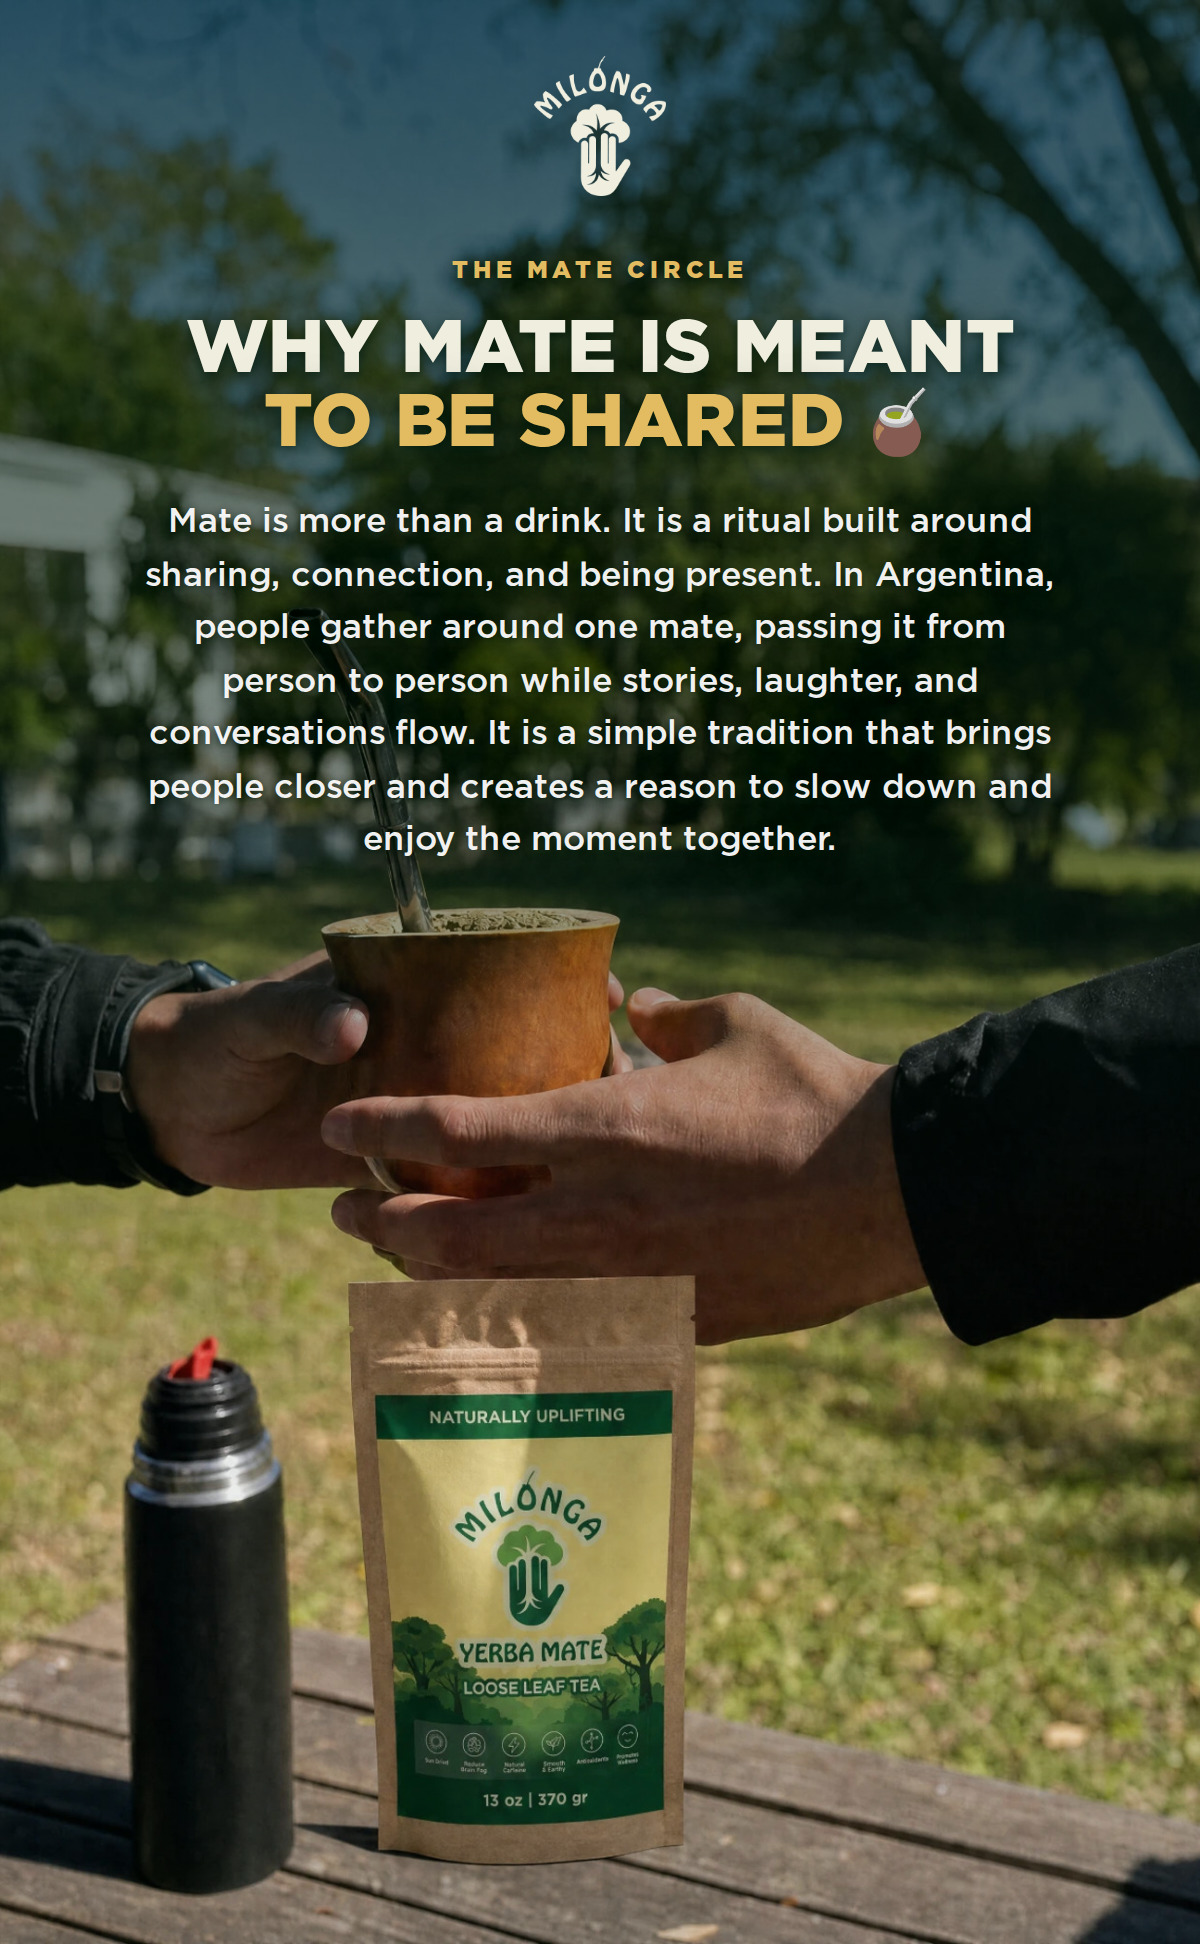
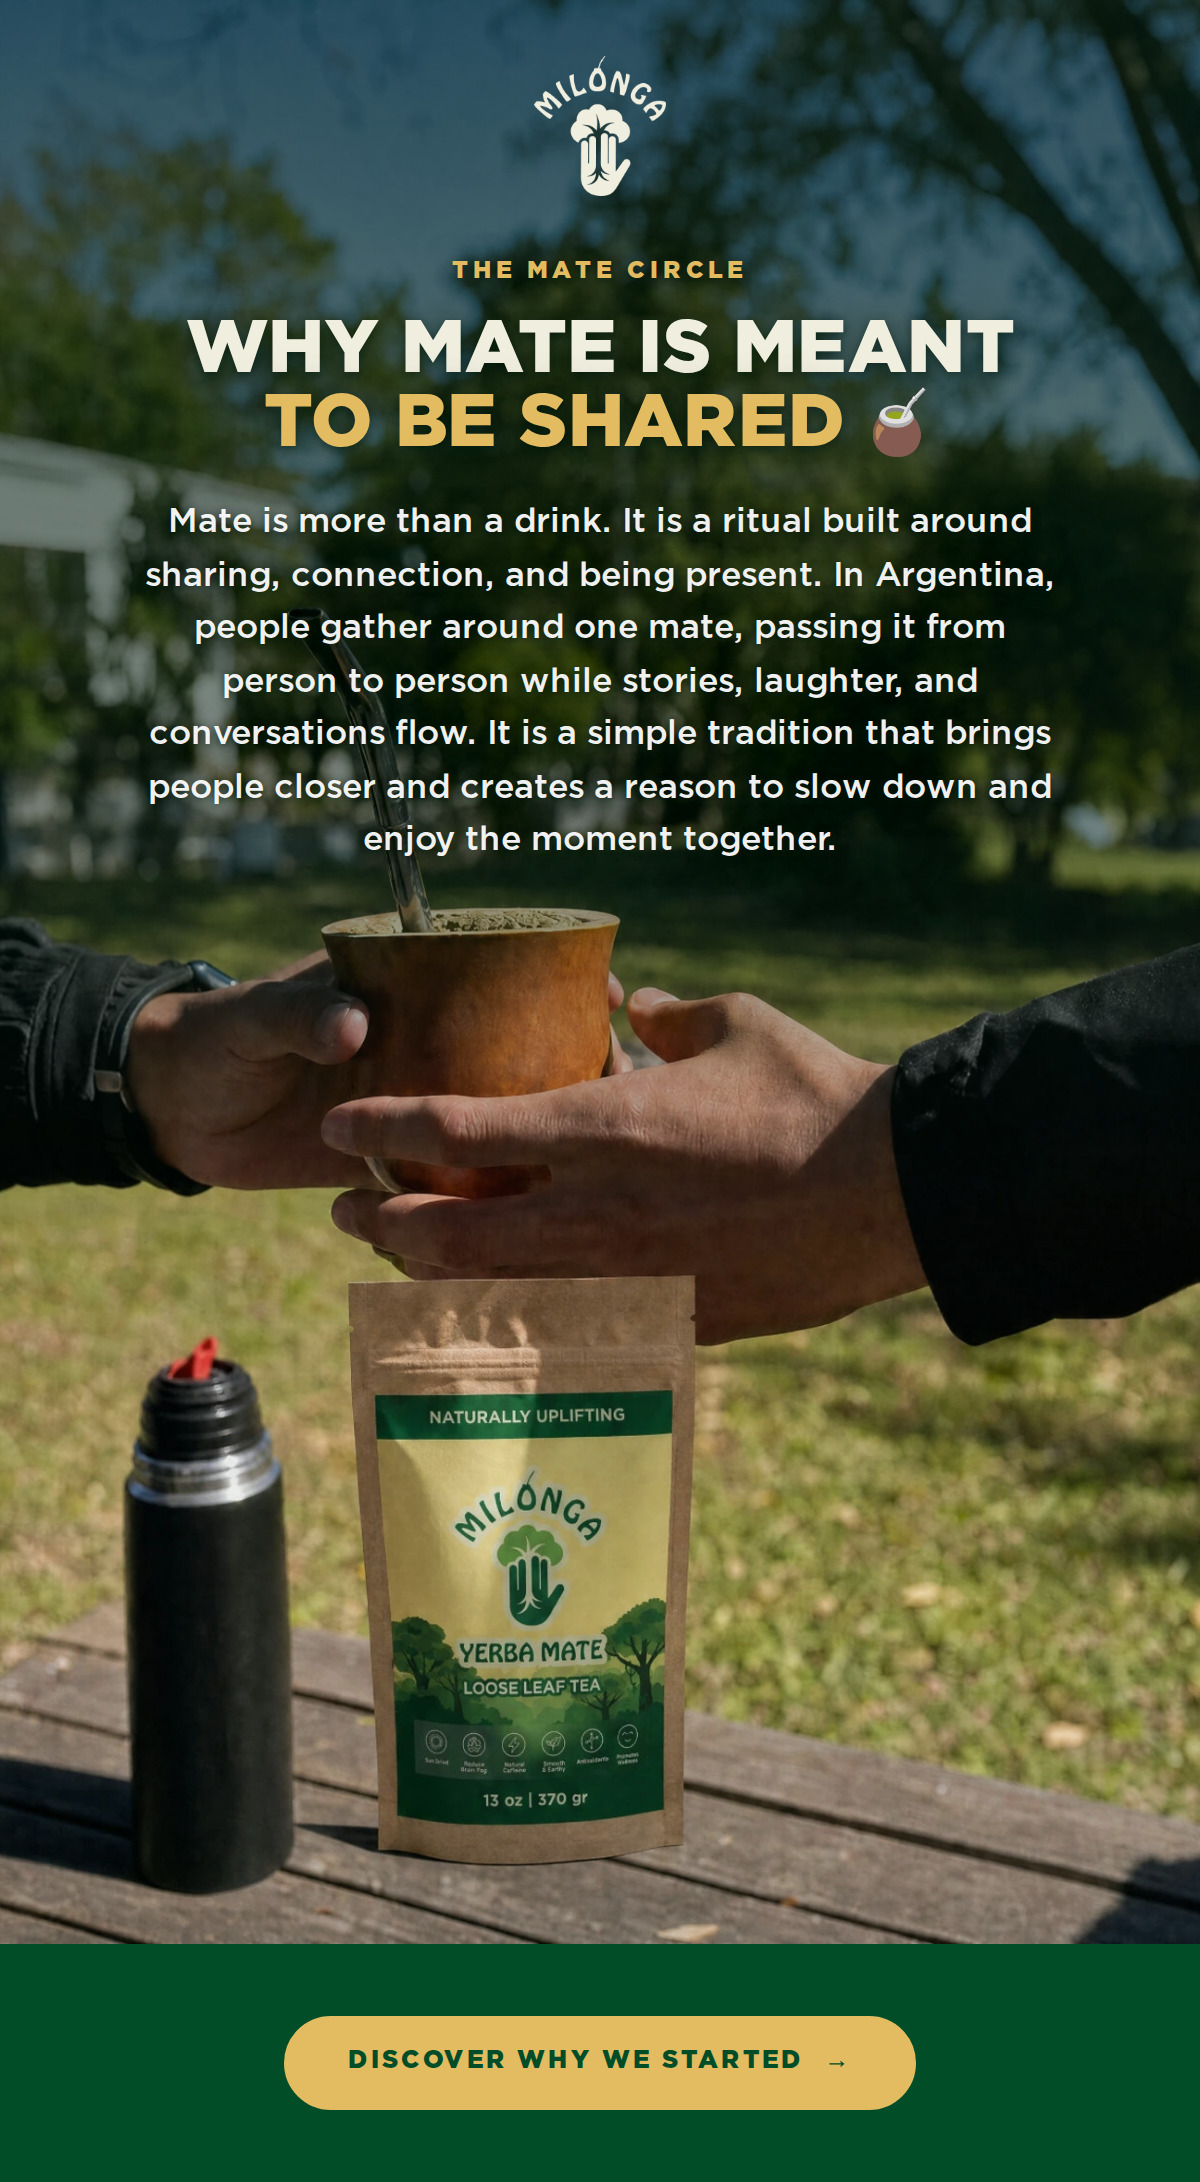
Add an About-page CTA to section 1 via T9Story ctaBelow
"Discover why we started", pointing at the About page.

It goes on a forest band under the photograph rather than on it. The opener
runs the Milonga pouch almost to the bottom edge and the gourd and hands fill
the middle, so there is no quiet corner left — a pill on top of the pack would
be the same mistake corrected in section 2 one commit ago, and no amount of
scrim fixes a button sitting on the product.

So `ctaBelow` moves the CTA group onto a band of `bg` beneath the frame. The
band is brand colour, which means the button is gold on forest — the strongest
contrast pairing we have — instead of gold on whatever the photograph happens
to be doing at that height.

The scrim follows: with nothing to protect at the foot of the picture, the
bottom of the gradient drops back to its light setting rather than darkening
art for a button that is no longer on it.

Claude-Session: https://claude.ai/code/session_01NhEtXPnfeCJfN73SqBkUZ5

diff --git a/email-ds/src/components/HeroTemplates.tsx b/email-ds/src/components/HeroTemplates.tsx
@@ -974,6 +974,17 @@ export interface T9Props {
    */
   tailParas?: string[];
   cta?: Cta;
+  /**
+   * Move the CTA group OFF the photograph, onto a band of `bg` underneath it.
+   *
+   * Some pictures have no quiet corner to put a button in — this section's
+   * opener runs the pouch almost to the bottom edge, and a pill on top of the
+   * pack is worse than no pill at all. When the picture has nowhere for it,
+   * the button belongs on brand colour below, not squeezed onto the art.
+   */
+  ctaBelow?: boolean;
+  /** Vertical padding of that band. */
+  belowPad?: number;
   /** Where the CTA GROUP starts — tail paragraphs first, then the button. */
   at?: string;
   /** Headline size. */
@@ -1000,6 +1011,8 @@ export function T9Story({
   paras = [],
   tailParas = [],
   cta,
+  ctaBelow = false,
+  belowPad = 34,
   at = '88%',
   size = 38,
   top = 30,
@@ -1009,13 +1022,18 @@ export function T9Story({
   scrim = 1,
   bg = 'beige',
 }: T9Props) {
+  const t = onBg[bg];
   const k = (v: number) => Math.min(1, v * scrim).toFixed(2);
-  const hasTailCopy = tailParas.length > 0;
+  // When the CTA group sits on a band below, the picture has nothing to
+  // protect at its foot — so the bottom of the scrim goes back to the light
+  // setting instead of darkening art for a button that is not on it.
+  const hasTailCopy = tailParas.length > 0 && !ctaBelow;
+  const guarding = (!!cta && !ctaBelow) || hasTailCopy;
   // The bottom lift has to start above whatever sits down there. A lone button
   // needs the last 16%; a paragraph riding with it needs roughly twice that,
   // and starting the lift too late is what leaves a paragraph half-legible on
   // a bright patch of picture.
-  const tail = !cta && !hasTailCopy
+  const tail = !guarding
     ? `rgba(0,26,13,${k(0.06)}) 84%, rgba(0,26,13,${k(0.14)}) 100%`
     : hasTailCopy
       ? `rgba(0,26,13,${k(0.20)}) 70%, rgba(0,26,13,${k(0.46)}) 84%, rgba(0,26,13,${k(0.52)}) 100%`
@@ -1024,6 +1042,7 @@ export function T9Story({
   const softShadow = '0 1px 4px rgba(0,26,13,0.72), 0 3px 16px rgba(0,26,13,0.55)';
 
   return (
+    <>
     <Frame src={src} alt={alt} ratio={ratio} focus={focus}>
       <div
         style={{
@@ -1069,7 +1088,7 @@ export function T9Story({
         ))}
       </div>
 
-      {cta || hasTailCopy ? (
+      {(cta && !ctaBelow) || hasTailCopy ? (
         <div style={{ position: 'absolute', top: at, left: 0, right: 0, padding: '0 30px', textAlign: 'center' }}>
           {tailParas.map((p, i) => (
             <div
@@ -1096,6 +1115,31 @@ export function T9Story({
         </div>
       ) : null}
     </Frame>
+
+    {cta && ctaBelow ? (
+      <div style={{ padding: `${belowPad}px 30px`, textAlign: 'center', ...bgStyle(bg, bgFill[bg]) }}>
+        {tailParas.map((p, i) => (
+          <div
+            key={i}
+            style={{
+              fontFamily: fontStack,
+              fontWeight: 500,
+              fontSize: 16,
+              lineHeight: 1.56,
+              color: t.body,
+              maxWidth: measure,
+              margin: `${i === 0 ? 0 : 14}px auto 0`,
+            }}
+          >
+            {p}
+          </div>
+        ))}
+        <div style={{ marginTop: tailParas.length ? 26 : 0 }}>
+          <Pill cta={cta} fill={t.btnBg} ink={t.btnText} />
+        </div>
+      </div>
+    ) : null}
+    </>
   );
 }
 

diff --git a/email-ds/emails/mate-ritual.jsx b/email-ds/emails/mate-ritual.jsx
@@ -38,6 +38,14 @@ function MateRitual() {
       size: 37,
       top: 28,
       measure: 460,
+      // The button goes on forest under the picture, not on it. This
+      // photograph runs the pouch almost to the bottom edge and has no quiet
+      // corner left — a pill over the pack would be the same mistake that was
+      // just corrected in section 2.
+      cta: { label: 'Discover why we started', href: '#about', arrow: true },
+      ctaBelow: true,
+      bg: 'forest',
+      belowPad: 36,
     }),
 
     // ── 2 · WHAT IT'S REALLY FOR ──────────────────────────────────────────
